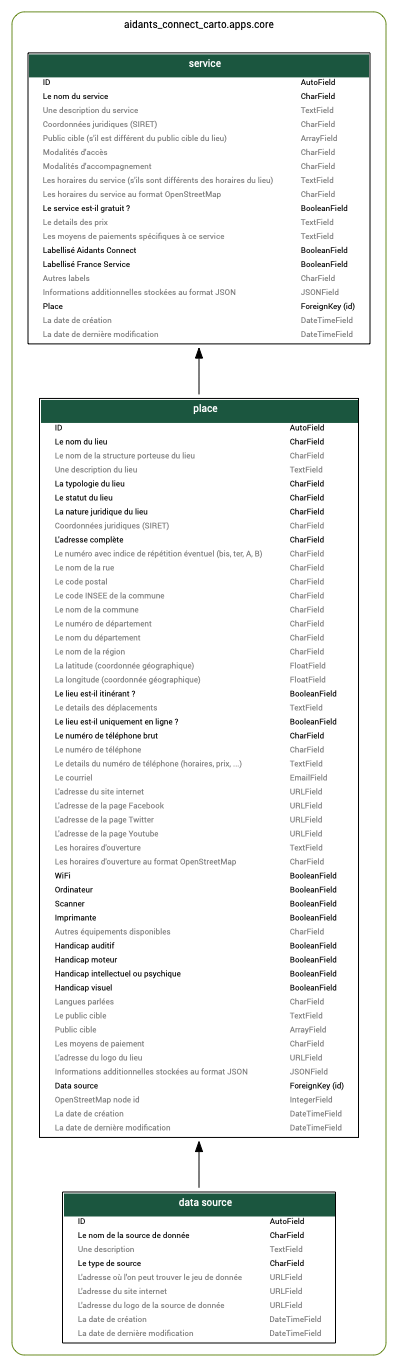
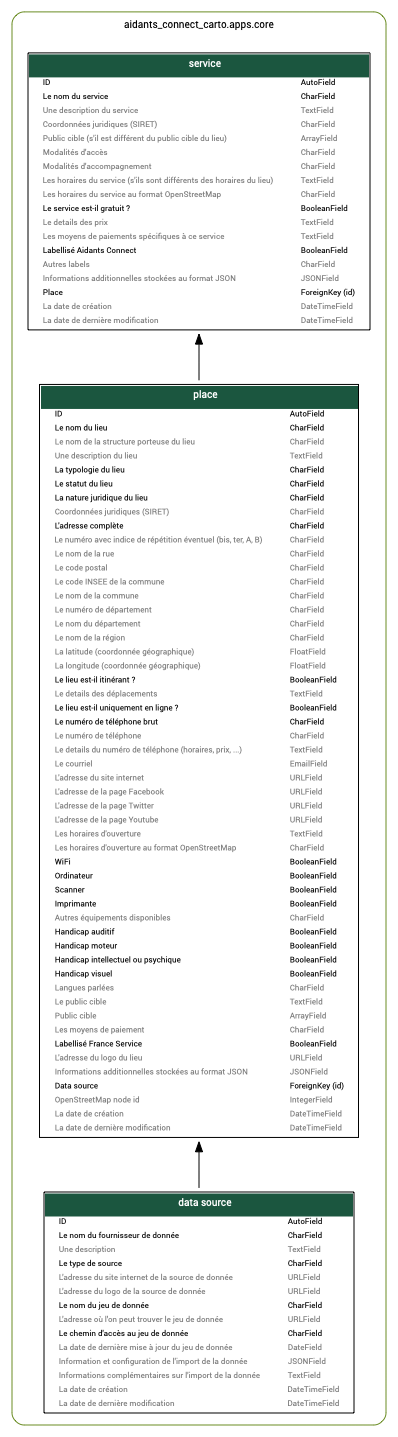
Improve loading script. Update documentation

diff --git a/aidants_connect_carto/apps/web/templates/data_sources_list.html b/aidants_connect_carto/apps/web/templates/data_sources_list.html
@@ -22,6 +22,9 @@
         <div class="card">
           <div class="card__content">
             <h4>{{ data_source.name }}</h4>
+            <div class="card__meta">
+              {{ data_source.dataset_name }}
+            </div>
             <!-- <div class="card__meta"></div> -->
             <p class="text-quote">{{ data_source.type }}</p>
             <p>📍&nbsp;{{ data_source.places.count }} Lieux</p>

diff --git a/aidants_connect_carto/apps/web/templates/places/place_create.html b/aidants_connect_carto/apps/web/templates/places/place_create.html
@@ -193,7 +193,7 @@
       </div>
 
       <div class="form__group">
-        <input type="submit" value="Sauvegarder">
+        <input type="submit" value="Sauvegarder" disabled>
       </div>
     </form>
   </div>

diff --git a/aidants_connect_carto/apps/web/templates/places/services/service_create.html b/aidants_connect_carto/apps/web/templates/places/services/service_create.html
@@ -112,7 +112,7 @@
       </div>
 
       <div class="form__group">
-        <input type="submit" value="Sauvegarder">
+        <input type="submit" value="Sauvegarder" disabled>
       </div>
     </form>
 

diff --git a/aidants_connect_carto/apps/core/management/commands/load_data_source_csv.py b/aidants_connect_carto/apps/core/management/commands/load_data_source_csv.py
@@ -12,6 +12,7 @@ from aidants_connect_carto.apps.core.models import Place, Service, DataSource
 
 """
 import_config: JSONField
+- dataset_file_delimiter
 - place_fields_set
 - place_fields_mapping_auto
 - place_fields_mapping_boolean
@@ -51,7 +52,7 @@ def create_place(row, data_source):
             """
             if type(elem["file_field"]) == list:
                 address_temp = ""
-                if type(elem["file_field"][0] == list):
+                if type(elem["file_field"][0]) == list:
                     address_temp = " ".join(
                         [
                             row[item].strip()
@@ -152,10 +153,8 @@ class Command(BaseCommand):
 
         # encoding="utf-8-sig" for files that start with '\ufeff'
         with open(data_source.dataset_local_path, mode="rt", encoding="utf-8-sig") as f:
-            FILE_DELIMITER = (
-                data_source.import_config["dataset_file_delimiter"]
-                if ("dataset_file_delimiter" in data_source.import_config)
-                else ";"
+            FILE_DELIMITER = data_source.import_config.get(
+                "dataset_file_delimiter", ";"
             )
             reader = csv.DictReader(f, delimiter=FILE_DELIMITER)
             # print(reader.fieldnames)

diff --git a/aidants_connect_carto/settings.py b/aidants_connect_carto/settings.py
@@ -184,6 +184,11 @@ MODELSDOC_DISPLAY_FIELDS = (
     ("Null/Blank", "null_blank"),
     ("Comment", "comment"),
 )
+MODELSDOC_MODEL_OPTIONS = (
+    "unique_together",
+    "index_together",
+    "ordering",
+)
 
 
 # API URLS

diff --git a/aidants_connect_carto/apps/core/documentation/listing_models.md b/aidants_connect_carto/apps/core/documentation/listing_models.md
@@ -5,25 +5,25 @@
 ## data source(aidants_connect_carto.apps.core.models.DataSource)
 
 ```
-DataSource(id, name, description, type, dataset_url, contact_website_url, logo_url, created_at, updated_at)
+DataSource(id, name, description, type, contact_website_url, logo_url, dataset_name, dataset_url, dataset_local_path, dataset_last_updated, import_config, import_comment, created_at, updated_at)
 ```
 
 |Name|Fullname|Type|Unique|Null/Blank|Comment|
 |---|---|---|---|---|---|
 |id |ID |serial |True |Blank | |
-|name |Le nom de la source de donnée |varchar(300) | | | |
+|name |Le nom du fournisseur de donnée |varchar(300) | | | |
 |description |Une description |text | |Blank | |
 |type |Le type de source |varchar(32) | | | |
-|dataset_url |L'adresse où l'on peut trouver le jeu de donnée |varchar(300) | |Blank | |
-|contact_website_url |L'adresse du site internet |varchar(300) | |Blank | |
+|contact_website_url |L'adresse du site internet de la source de donnée |varchar(300) | |Blank | |
 |logo_url |L'adresse du logo de la source de donnée |varchar(300) | |Blank | |
+|dataset_name |Le nom du jeu de donnée |varchar(300) | | | |
+|dataset_url |L'adresse où l'on peut trouver le jeu de donnée |varchar(300) | |Blank | |
+|dataset_local_path |Le chemin d'accès au jeu de donnée |varchar(300) | | | |
+|dataset_last_updated |La date de dernière mise à jour du jeu de donnée |date | |Both | |
+|import_config |Information et configuration de l'import de la donnée |jsonb | |Both | |
+|import_comment |Informations complémentaires sur l'import de la donnée |text | |Blank | |
 |created_at |La date de création |timestamp with time zone | |Blank | |
 |updated_at |La date de dernière modification |timestamp with time zone | |Blank | |
-
-Options
-```
-default_permissions : ('add', 'change', 'delete', 'view')
-```
 
 
 ## place(aidants_connect_carto.apps.core.models.Place)
@@ -40,7 +40,7 @@ Place(id, name, supporting_structure_name, description, type, status, legal_enti
 |description |Une description du lieu |text | |Blank | |
 |type |La typologie du lieu |varchar(32) | | |centre social:Centre social, securite sociale:Organisme de sécurité sociale (CAF, CPAM, CARSAT, MSA...), tiers lieu:Tiers-lieu & coworking, FabLab, association:Association, maison quartier:Maison de quartier, pimms:Point Information Médiation Multi Services (PIMMS), msap:Maison de Service au Public (MSAP), bibliotheque:Bibliothèque - Médiathèque, formation:Organisme de formations, pole emploi:Pôle Emploi, commune:Commune (Ville, CCAS, Centre Culturel...), intercommunalite:Intercommunalité (EPCI), administration:Administration - Collectivité territoriale, departement:Département (UTPAS, MDS, MDSI, UTAS...), prefecture:Préfecture, Sous-Préfecture, autre:Autre, Inconnu |
 |status |Le statut du lieu |varchar(32) | | |public:Public, prive:Privé, public-prive:Public / Privé, autre:Autre, Inconnu |
-|legal_entity_type |La nature juridique du lieu |varchar(32) | | |association:Association, collectivite:Collectivité locale ou territoriale, cae:Coopérative d'Activités et d'Entrepreneur·es (CAE), epci:Établissement public de coopération intercommunale (EPCI), epscp:Établissement public à caractère scientifique, culturel et professionnel (EPSCP), sas:Société par actions simplifiée (SAS), sarl:Société à responsabilité limitée (SARL), sasu:Société par actions simplifiée unipersonnelle (SASU), scic:société coopérative d’intérêt collectif (SCIC), scop:Société coopérative et participative (SCOP), spl:Société publique locale (SPL), autre:Autre, Inconnu |
+|legal_entity_type |La nature juridique du lieu |varchar(32) | | |association:Association, collectivite:Collectivité locale ou territoriale, cae:Coopérative d'Activités et d'Entrepreneur·es (CAE), epci:Établissement public de coopération intercommunale (EPCI), epic:Établissement public à caractère industriel et commercial (EPIC), epscp:Établissement public à caractère scientifique, culturel et professionnel (EPSCP), gip:Groupement d'intérêt public (GIP), sas:Société par actions simplifiée (SAS), sarl:Société à responsabilité limitée (SARL), sasu:Société par actions simplifiée unipersonnelle (SASU), scic:société coopérative d’intérêt collectif (SCIC), scop:Société coopérative et participative (SCOP), spl:Société publique locale (SPL), autre:Autre, Inconnu |
 |siret |Coordonnées juridiques (SIRET) |varchar(14) | |Blank | |
 |address_raw |L'adresse complète |varchar(300) | | | |
 |address_housenumber |Le numéro avec indice de répétition éventuel (bis, ter, A, B) |varchar(15) | |Blank | |
@@ -90,7 +90,6 @@ Place(id, name, supporting_structure_name, description, type, status, legal_enti
 Options
 ```
 ordering : ['id']
-default_permissions : ('add', 'change', 'delete', 'view')
 ```
 
 
@@ -124,249 +123,6 @@ Service(id, name, description, siret, target_audience, support_access, support_m
 Options
 ```
 ordering : ['id']
-default_permissions : ('add', 'change', 'delete', 'view')
-```
-
-
-## entrée d’historique(django.contrib.admin.models.LogEntry)
-
-```
-LogEntry(id, action_time, user, content_type, object_id, object_repr, action_flag, change_message)
-```
-
-|Name|Fullname|Type|Unique|Null/Blank|Comment|
-|---|---|---|---|---|---|
-|id |ID |serial |True |Blank | |
-|action_time |heure de l’action |timestamp with time zone | | | |
-|user |utilisateur |integer | | |FK:django.contrib.auth.models.User |
-|content_type |type de contenu |integer | |Both |FK:django.contrib.contenttypes.models.ContentType |
-|object_id |id de l’objet |text | |Both | |
-|object_repr |représentation de l’objet |varchar(200) | | | |
-|action_flag |indicateur de l’action |smallint | | |1:Ajout, 2:Modifier, 3:Suppression |
-|change_message |message de modification |text | |Blank | |
-
-Options
-```
-ordering : ('-action_time',)
-default_permissions : ('add', 'change', 'delete', 'view')
-```
-
-
-## permission(django.contrib.auth.models.Permission)
-
-```
-
-    The permissions system provides a way to assign permissions to specific
-    users and groups of users.
-
-    The permission system is used by the Django admin site, but may also be
-    useful in your own code. The Django admin site uses permissions as follows:
-
-        - The "add" permission limits the user's ability to view the "add" form
-          and add an object.
-        - The "change" permission limits a user's ability to view the change
-          list, view the "change" form and change an object.
-        - The "delete" permission limits the ability to delete an object.
-        - The "view" permission limits the ability to view an object.
-
-    Permissions are set globally per type of object, not per specific object
-    instance. It is possible to say "Mary may change news stories," but it's
-    not currently possible to say "Mary may change news stories, but only the
-    ones she created herself" or "Mary may only change news stories that have a
-    certain status or publication date."
-
-    The permissions listed above are automatically created for each model.
-    
-```
-
-|Name|Fullname|Type|Unique|Null/Blank|Comment|
-|---|---|---|---|---|---|
-|id |ID |serial |True |Blank | |
-|name |nom |varchar(255) | | | |
-|content_type |type de contenu |integer | | |FK:django.contrib.contenttypes.models.ContentType |
-|codename |nom de code |varchar(100) | | | |
-
-Options
-```
-unique_together : (('content_type', 'codename'),)
-ordering : ('content_type__app_label', 'content_type__model', 'codename')
-default_permissions : ('add', 'change', 'delete', 'view')
-```
-
-
-## Relation group-permission(django.contrib.auth.models.Group_permissions)
-
-```
-Group_permissions(id, group, permission)
-```
-
-|Name|Fullname|Type|Unique|Null/Blank|Comment|
-|---|---|---|---|---|---|
-|id |ID |serial |True |Blank | |
-|group |group |integer | | |FK:django.contrib.auth.models.Group |
-|permission |permission |integer | | |FK:django.contrib.auth.models.Permission |
-
-Options
-```
-unique_together : (('group', 'permission'),)
-default_permissions : ('add', 'change', 'delete', 'view')
-```
-
-
-## groupe(django.contrib.auth.models.Group)
-
-```
-
-    Groups are a generic way of categorizing users to apply permissions, or
-    some other label, to those users. A user can belong to any number of
-    groups.
-
-    A user in a group automatically has all the permissions granted to that
-    group. For example, if the group 'Site editors' has the permission
-    can_edit_home_page, any user in that group will have that permission.
-
-    Beyond permissions, groups are a convenient way to categorize users to
-    apply some label, or extended functionality, to them. For example, you
-    could create a group 'Special users', and you could write code that would
-    do special things to those users -- such as giving them access to a
-    members-only portion of your site, or sending them members-only email
-    messages.
-    
-```
-
-|Name|Fullname|Type|Unique|Null/Blank|Comment|
-|---|---|---|---|---|---|
-|id |ID |serial |True |Blank | |
-|name |nom |varchar(150) |True | | |
-|permissions |permissions | | |Blank |M2M:django.contrib.auth.models.Permission (through: django.contrib.auth.models.Group_permissions) |
-
-Options
-```
-default_permissions : ('add', 'change', 'delete', 'view')
-```
-
-
-## Relation user-group(django.contrib.auth.models.User_groups)
-
-```
-User_groups(id, user, group)
-```
-
-|Name|Fullname|Type|Unique|Null/Blank|Comment|
-|---|---|---|---|---|---|
-|id |ID |serial |True |Blank | |
-|user |user |integer | | |FK:django.contrib.auth.models.User |
-|group |group |integer | | |FK:django.contrib.auth.models.Group |
-
-Options
-```
-unique_together : (('user', 'group'),)
-default_permissions : ('add', 'change', 'delete', 'view')
-```
-
-
-## Relation user-permission(django.contrib.auth.models.User_user_permissions)
-
-```
-User_user_permissions(id, user, permission)
-```
-
-|Name|Fullname|Type|Unique|Null/Blank|Comment|
-|---|---|---|---|---|---|
-|id |ID |serial |True |Blank | |
-|user |user |integer | | |FK:django.contrib.auth.models.User |
-|permission |permission |integer | | |FK:django.contrib.auth.models.Permission |
-
-Options
-```
-unique_together : (('user', 'permission'),)
-default_permissions : ('add', 'change', 'delete', 'view')
-```
-
-
-## utilisateur(django.contrib.auth.models.User)
-
-```
-
-    Users within the Django authentication system are represented by this
-    model.
-
-    Username and password are required. Other fields are optional.
-    
-```
-
-|Name|Fullname|Type|Unique|Null/Blank|Comment|
-|---|---|---|---|---|---|
-|id |ID |serial |True |Blank | |
-|password |mot de passe |varchar(128) | | | |
-|last_login |dernière connexion |timestamp with time zone | |Both | |
-|is_superuser |statut super-utilisateur |boolean | | | |
-|username |nom d’utilisateur |varchar(150) |True | | |
-|first_name |prénom |varchar(30) | |Blank | |
-|last_name |nom |varchar(150) | |Blank | |
-|email |adresse électronique |varchar(254) | |Blank | |
-|is_staff |statut équipe |boolean | | | |
-|is_active |actif |boolean | | | |
-|date_joined |date d’inscription |timestamp with time zone | | | |
-|groups |groupes | | |Blank |M2M:django.contrib.auth.models.Group (through: django.contrib.auth.models.User_groups) |
-|user_permissions |permissions de l’utilisateur | | |Blank |M2M:django.contrib.auth.models.Permission (through: django.contrib.auth.models.User_user_permissions) |
-
-Options
-```
-swappable : AUTH_USER_MODEL
-default_permissions : ('add', 'change', 'delete', 'view')
-```
-
-
-## type de contenu(django.contrib.contenttypes.models.ContentType)
-
-```
-ContentType(id, app_label, model)
-```
-
-|Name|Fullname|Type|Unique|Null/Blank|Comment|
-|---|---|---|---|---|---|
-|id |ID |serial |True |Blank | |
-|app_label |app label |varchar(100) | | | |
-|model |nom de la classe python du modèle |varchar(100) | | | |
-
-Options
-```
-unique_together : (('app_label', 'model'),)
-default_permissions : ('add', 'change', 'delete', 'view')
-```
-
-
-## session(django.contrib.sessions.models.Session)
-
-```
-
-    Django provides full support for anonymous sessions. The session
-    framework lets you store and retrieve arbitrary data on a
-    per-site-visitor basis. It stores data on the server side and
-    abstracts the sending and receiving of cookies. Cookies contain a
-    session ID -- not the data itself.
-
-    The Django sessions framework is entirely cookie-based. It does
-    not fall back to putting session IDs in URLs. This is an intentional
-    design decision. Not only does that behavior make URLs ugly, it makes
-    your site vulnerable to session-ID theft via the "Referer" header.
-
-    For complete documentation on using Sessions in your code, consult
-    the sessions documentation that is shipped with Django (also available
-    on the Django Web site).
-    
-```
-
-|Name|Fullname|Type|Unique|Null/Blank|Comment|
-|---|---|---|---|---|---|
-|session_key |clé de session |varchar(40) |True | | |
-|session_data |données de session |text | | | |
-|expire_date |date d'expiration |timestamp with time zone | | | |
-
-Options
-```
-default_permissions : ('add', 'change', 'delete', 'view')
 ```
 
 
